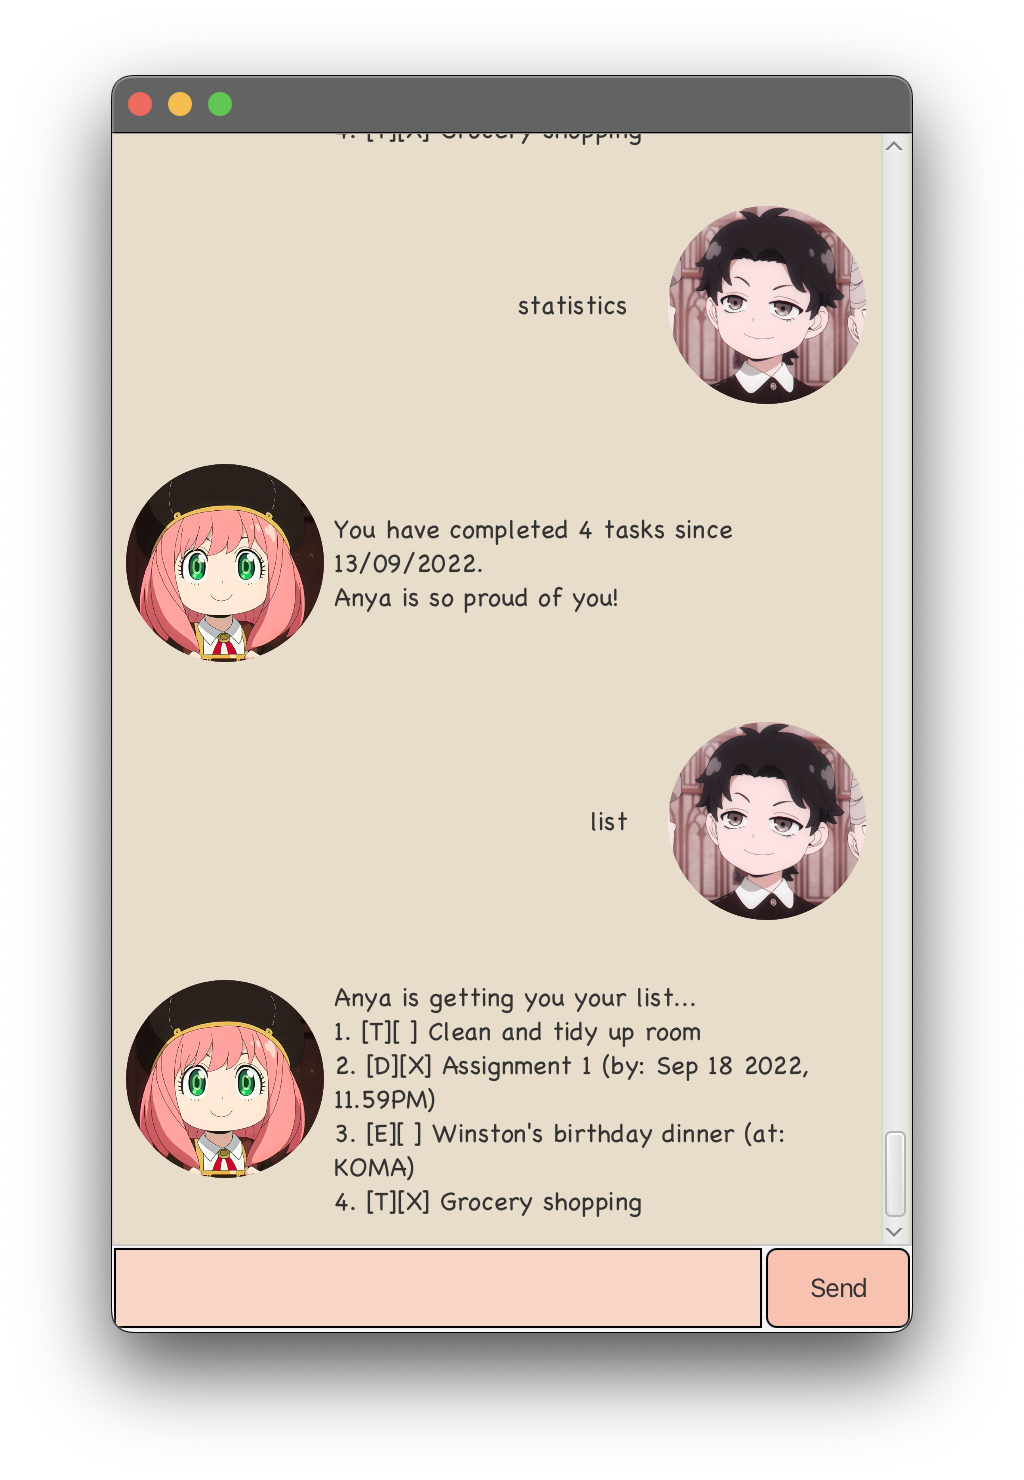
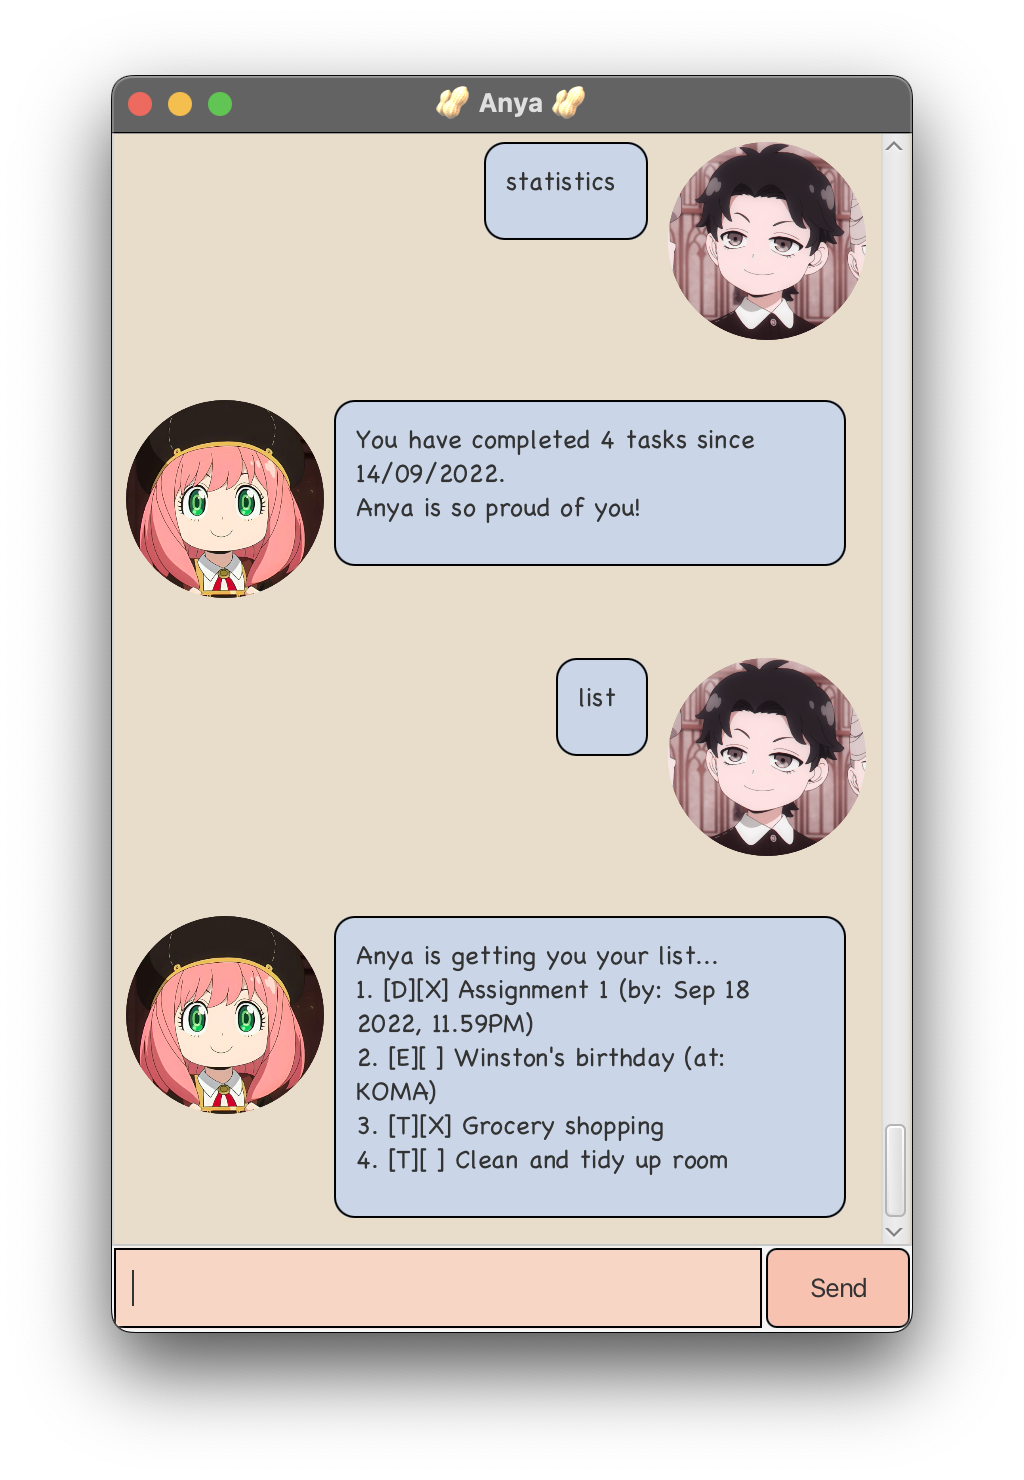
Add color and border to dialog box.

Changed region(s): [[0.125, 0.0622, 0.8438, 0.8392]]

diff --git a/src/main/resources/view/application.css b/src/main/resources/view/application.css
@@ -24,3 +24,9 @@ textfieldbg:focused {
     -fx-border-color: black;
 }
 
+.dialogbox {
+    -fx-border-color: black;
+    -fx-border-radius: 10px;
+    -fx-background-color: #CAD6E8;
+    -fx-background-radius: 10px;
+}

diff --git a/src/main/java/anya/Main.java b/src/main/java/anya/Main.java
@@ -19,6 +19,7 @@ public class Main extends Application {
             Scene scene = new Scene(ap);
             stage.setScene(scene);
             fxmlLoader.<MainWindow>getController().setAnya(anya);
+            stage.setTitle("🥜 Anya 🥜");
             stage.show();
         } catch (IOException e) {
             e.printStackTrace();
